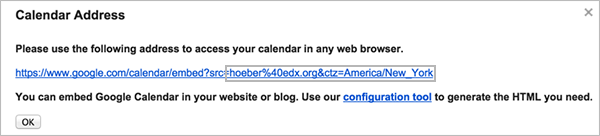
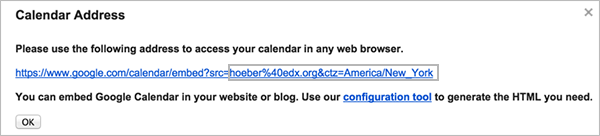
Steve's comments

Changed region(s): [[0.36, 0.4706, 0.75, 0.6176]]

diff --git a/en_us/shared/exercises_tools/google_calendar.rst b/en_us/shared/exercises_tools/google_calendar.rst
@@ -73,6 +73,8 @@ public and get its embed code.
    calendar.
 
 #. Copy the value of the ``src`` attribute from the address.
+   
+   .. note:: Do not copy the ``=`` character.
 
    .. image:: ../Images/google-calendar-address.png
     :alt: The Google calendar embed code
